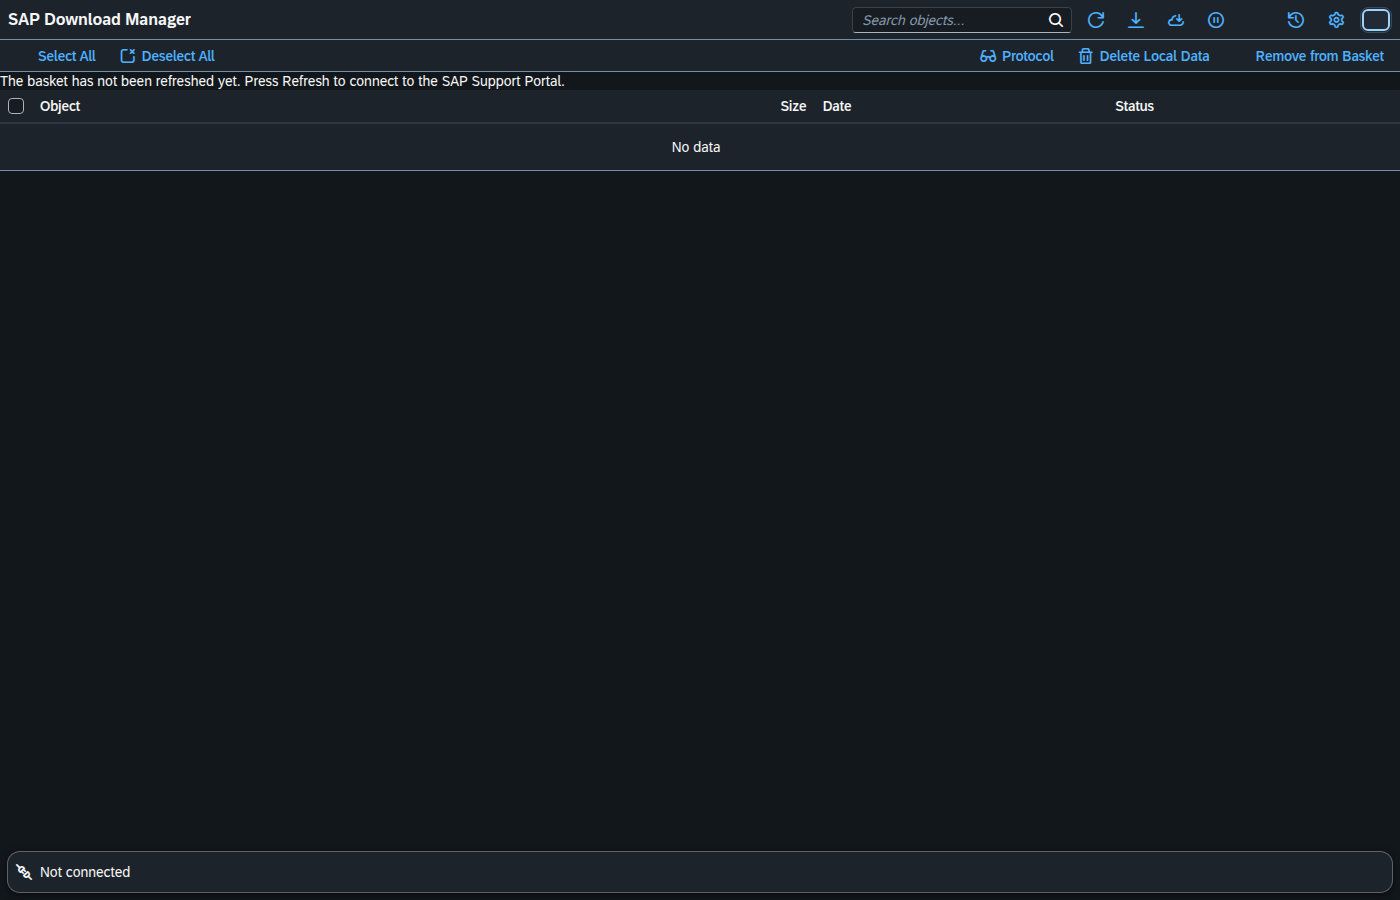
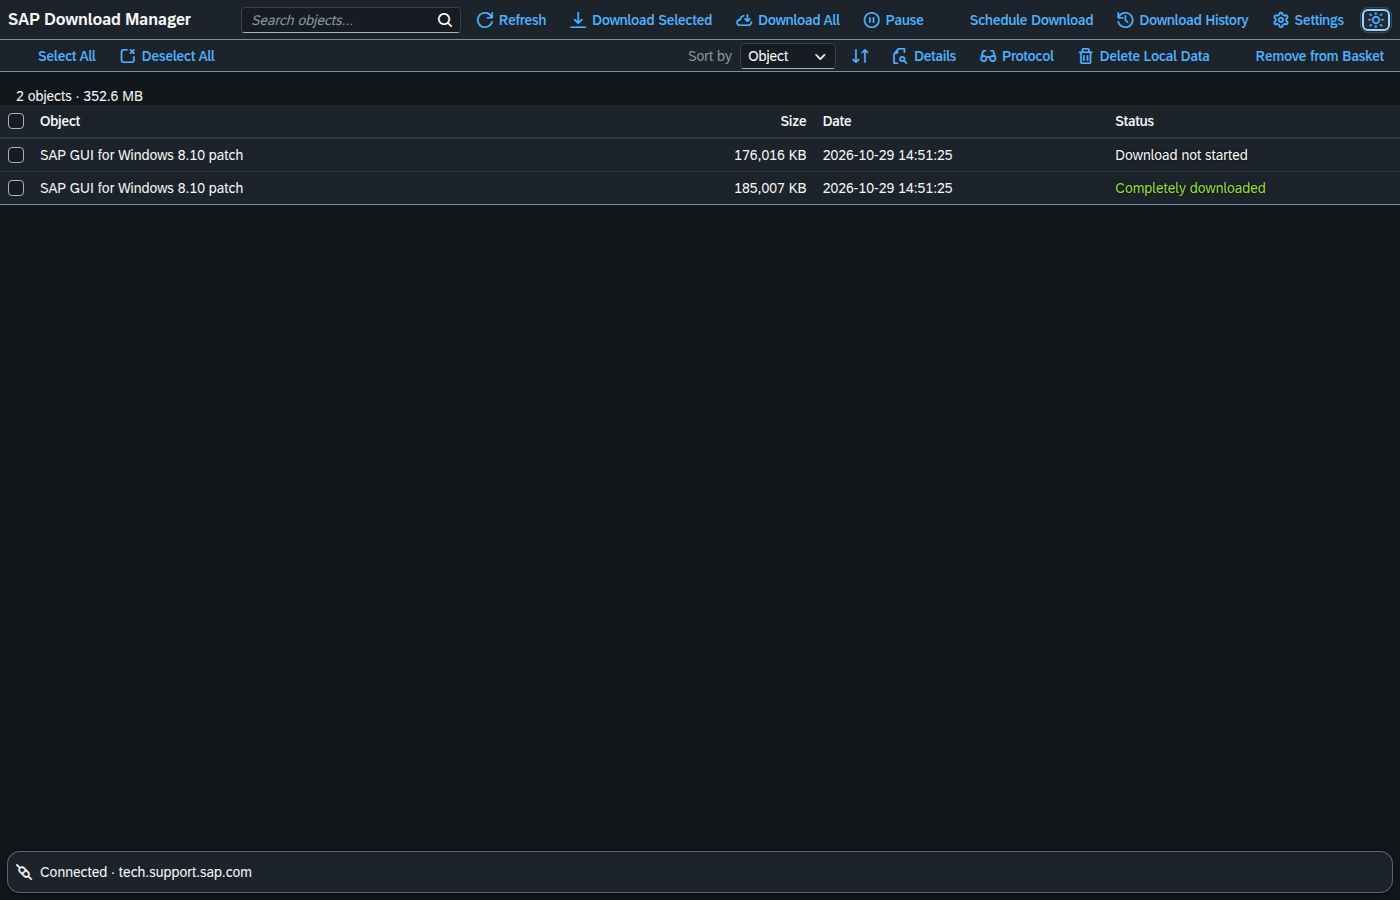
Fix detail dialog fragment and use a sun/moon theme toggle
- The object detail dialog used sap.ui.core.Label, which no longer
  exists in current UI5 runtimes (script load error). Use the
  sap.m.Label from the default namespace instead.
- Replace the theme text button with an icon-only toggle: moon in
  light mode (switch to dark), sun in dark mode (switch to light).
  sap.m.Switch type=Icon is not a valid SwitchType anymore.

diff --git a/web/controller/Basket.controller.js b/web/controller/Basket.controller.js
@@ -26,6 +26,13 @@ sap.ui.define([
 			this._oTable = this.byId("basketTable");
 			this._oSorter = { key: "sortObject", descending: false };
 
+			// Theme toggle: the icon shows the mode you switch TO
+			// (moon = "switch to dark", sun = "switch to light").
+			var sInitial = sap.ui.getCore().getConfiguration().getTheme();
+			this.byId("btnTheme").setIcon(
+				sInitial === "sap_horizon_dark"
+					? "sap-icon://light-mode" : "sap-icon://dark-mode");
+
 			Api.refreshBasket().then(function () { that._decorate(); });
 
 			// Periodic status poll (WS covers live updates; poll is the fallback).
@@ -464,13 +471,16 @@ sap.ui.define([
 			oApp.to(oApp.getPages()[1]);
 		},
 
-		onToggleTheme: function () {
-			var oModel = sap.ui.getCore().getModel();
-			var sCurrent = oModel.getProperty("/theme") || "sap_horizon";
-			var sNext = sCurrent === "sap_horizon" ? "sap_horizon_dark" : "sap_horizon";
+		onThemeToggle: function () {
+			var sCurrent = sap.ui.getCore().getConfiguration().getTheme();
+			var sNext = sCurrent === "sap_horizon_dark" ? "sap_horizon" : "sap_horizon_dark";
 			sap.ui.getCore().applyTheme(sNext);
-			oModel.setProperty("/theme", sNext);
+			sap.ui.getCore().getModel().setProperty("/theme", sNext);
 			window.localStorage.setItem("dlm.theme", sNext);
+			// icon shows the mode you would switch to next
+			this.byId("btnTheme").setIcon(
+				sNext === "sap_horizon_dark"
+					? "sap-icon://light-mode" : "sap-icon://dark-mode");
 		},
 
 		_setBusy: function (bBusy, sText) {
